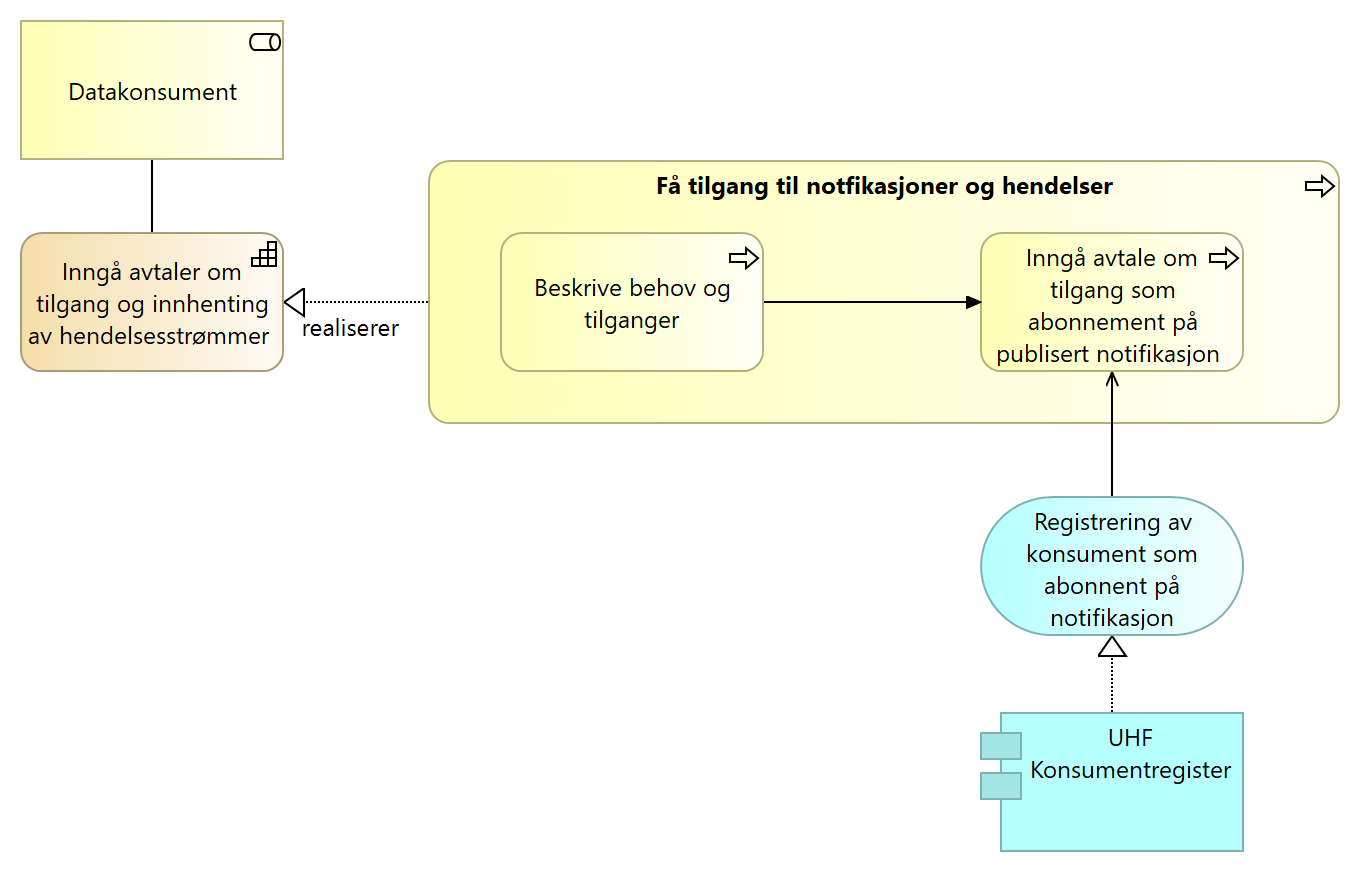
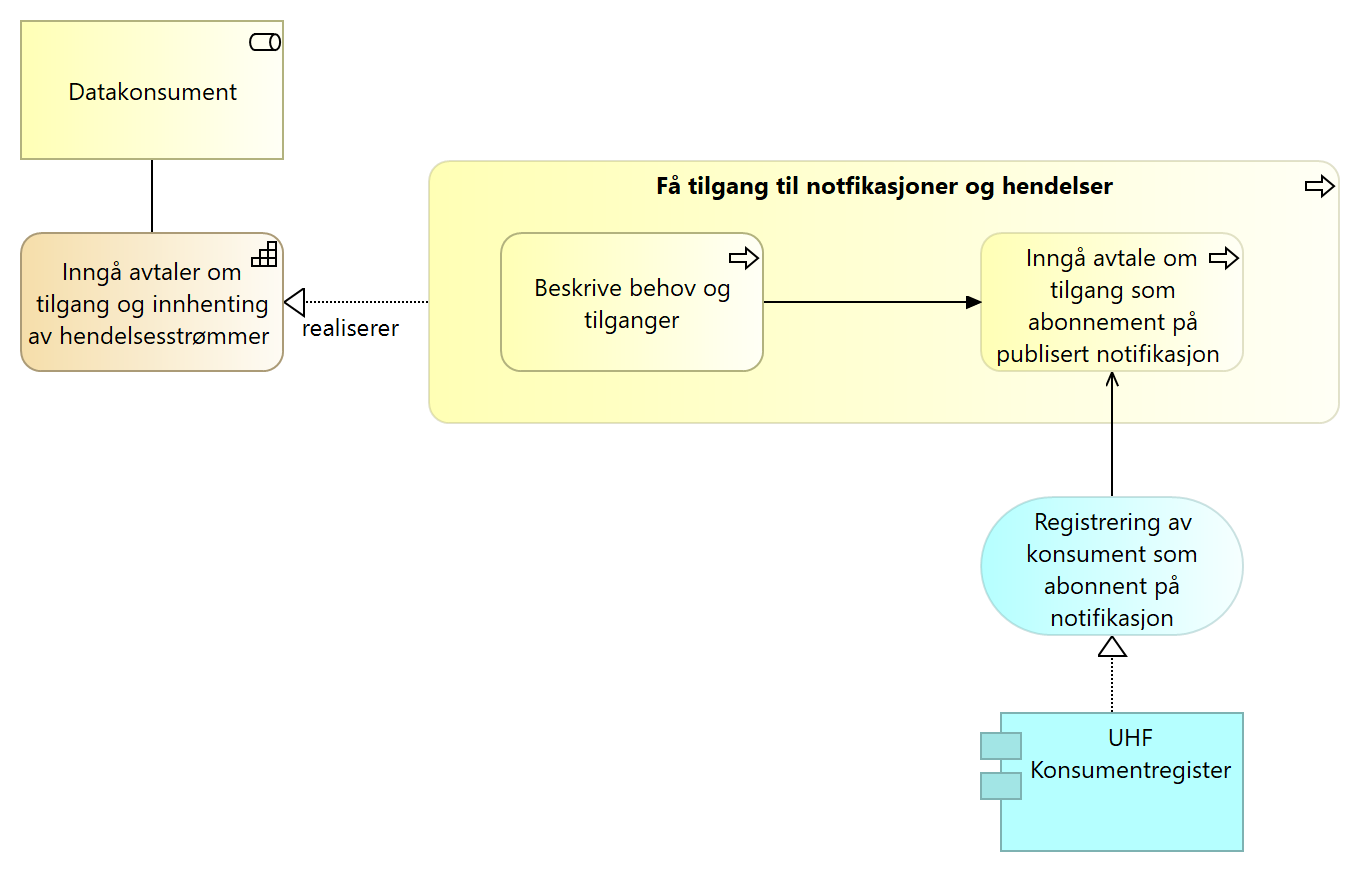
Dev

diff --git a/unit-ra/main/unit-ra-datadeling-datautveksling/Inngå avtaler om tilgang og innhenting av hendelsesstrømmer - Hendelsesliste og Publiser og Abonner UHF.var.1.html b/unit-ra/main/unit-ra-datadeling-datautveksling/Inngå avtaler om tilgang og innhenting av hendelsesstrømmer - Hendelsesliste og Publiser og Abonner UHF.var.1.html
@@ -184,18 +184,10 @@ Gå tilbake til standardvisning ved å klikke 'tilbake' (eller lukk dette vindue
 </thead>
 <tbody>
 <tr>
-<td class="tableblock halign-left valign-top"><p class="tableblock">Få tilgang til notfikasjoner og hendelser</p></td>
-<td class="tableblock halign-left valign-top"><div class="content"></div></td>
-</tr>
-<tr>
 <td class="tableblock halign-left valign-top"><p class="tableblock">Beskrive behov og tilganger</p></td>
 <td class="tableblock halign-left valign-top"><div class="content"><div class="paragraph">
 <p>Prosessen med å beskrive hvilke tilganger konsument har rettigeheter til og hvilken type notifikasjoner som er aktuelle.</p>
 </div></div></td>
-</tr>
-<tr>
-<td class="tableblock halign-left valign-top"><p class="tableblock">Inngå avtale om tilgang som abonnement på publisert notifikasjon</p></td>
-<td class="tableblock halign-left valign-top"><div class="content"></div></td>
 </tr>
 <tr>
 <td class="tableblock halign-left valign-top"><p class="tableblock">Datakonsument</p></td>
@@ -210,10 +202,6 @@ Gå tilbake til standardvisning ved å klikke 'tilbake' (eller lukk dette vindue
 </div></div></td>
 </tr>
 <tr>
-<td class="tableblock halign-left valign-top"><p class="tableblock">Registrering av konsument som abonnent på notifikasjon</p></td>
-<td class="tableblock halign-left valign-top"><div class="content"></div></td>
-</tr>
-<tr>
 <td class="tableblock halign-left valign-top"><p class="tableblock">UHF Konsumentregister</p></td>
 <td class="tableblock halign-left valign-top"><div class="content"><div class="paragraph">
 <p>Oversikt over alle datakonsumenter som er blitt tildelt tilgang til
@@ -226,7 +214,7 @@ autoritativt for</p>
 <div class="ulist">
 <ul>
 <li>
-<p>hvilke OAuth2 scopes knytet til hvilke API som konsumenten har fått
+<p>hvilke OAuth2 scopes knyttet til hvilke API som konsumenten har fått
 tilgang til</p>
 </li>
 </ul>

diff --git a/unit-ra/main/unit-ra-datadeling-datautveksling/Få tilgang til data - løsningsmønster UHF.var.1.html b/unit-ra/main/unit-ra-datadeling-datautveksling/Få tilgang til data - løsningsmønster UHF.var.1.html
@@ -318,7 +318,7 @@ autoritativt for</p>
 <div class="ulist">
 <ul>
 <li>
-<p>hvilke OAuth2 scopes knytet til hvilke API som konsumenten har fått
+<p>hvilke OAuth2 scopes knyttet til hvilke API som konsumenten har fått
 tilgang til</p>
 </li>
 </ul>

diff --git a/unit-ra/main/unit-ra-datadeling-datautveksling/Generere og publisere notifikasjoner - Publiser og Abonner UHF .var.1.html b/unit-ra/main/unit-ra-datadeling-datautveksling/Generere og publisere notifikasjoner - Publiser og Abonner UHF .var.1.html
@@ -258,7 +258,7 @@ autoritativt for</p>
 <div class="ulist">
 <ul>
 <li>
-<p>hvilke OAuth2 scopes knytet til hvilke API som konsumenten har fått
+<p>hvilke OAuth2 scopes knyttet til hvilke API som konsumenten har fått
 tilgang til</p>
 </li>
 </ul>

diff --git a/unit-ra/main/unit-ra-datadeling-datautveksling/Inngå avtaler om tilgang og levering av hendelsesstrømmer - Publiser og Abonner UHF .var.1.html b/unit-ra/main/unit-ra-datadeling-datautveksling/Inngå avtaler om tilgang og levering av hendelsesstrømmer - Publiser og Abonner UHF .var.1.html
@@ -228,7 +228,7 @@ autoritativt for</p>
 <div class="ulist">
 <ul>
 <li>
-<p>hvilke OAuth2 scopes knytet til hvilke API som konsumenten har fått
+<p>hvilke OAuth2 scopes knyttet til hvilke API som konsumenten har fått
 tilgang til</p>
 </li>
 </ul>

diff --git a/unit-ra/main/unit-ra-datadeling-målarkitekturen/Felleskomponenter.var.1.html b/unit-ra/main/unit-ra-datadeling-målarkitekturen/Felleskomponenter.var.1.html
@@ -226,7 +226,7 @@ autoritativt for</p>
 <div class="ulist">
 <ul>
 <li>
-<p>hvilke OAuth2 scopes knytet til hvilke API som konsumenten har fått
+<p>hvilke OAuth2 scopes knyttet til hvilke API som konsumenten har fått
 tilgang til</p>
 </li>
 </ul>

diff --git a/unit-ra/main/Bøker/Referansearkitektur for deling av data i høyere utdanning og forsking.html b/unit-ra/main/Bøker/Referansearkitektur for deling av data i høyere utdanning og forsking.html
@@ -155,7 +155,7 @@
 </div>
 <div class="listingblock">
 <div class="content">
-<pre>Mon Jan 31 2022 11:21:17 GMT+0100 (CET)</pre>
+<pre>Mon Jan 31 2022 11:37:33 GMT+0100 (CET)</pre>
 </div>
 </div>
 </div>
